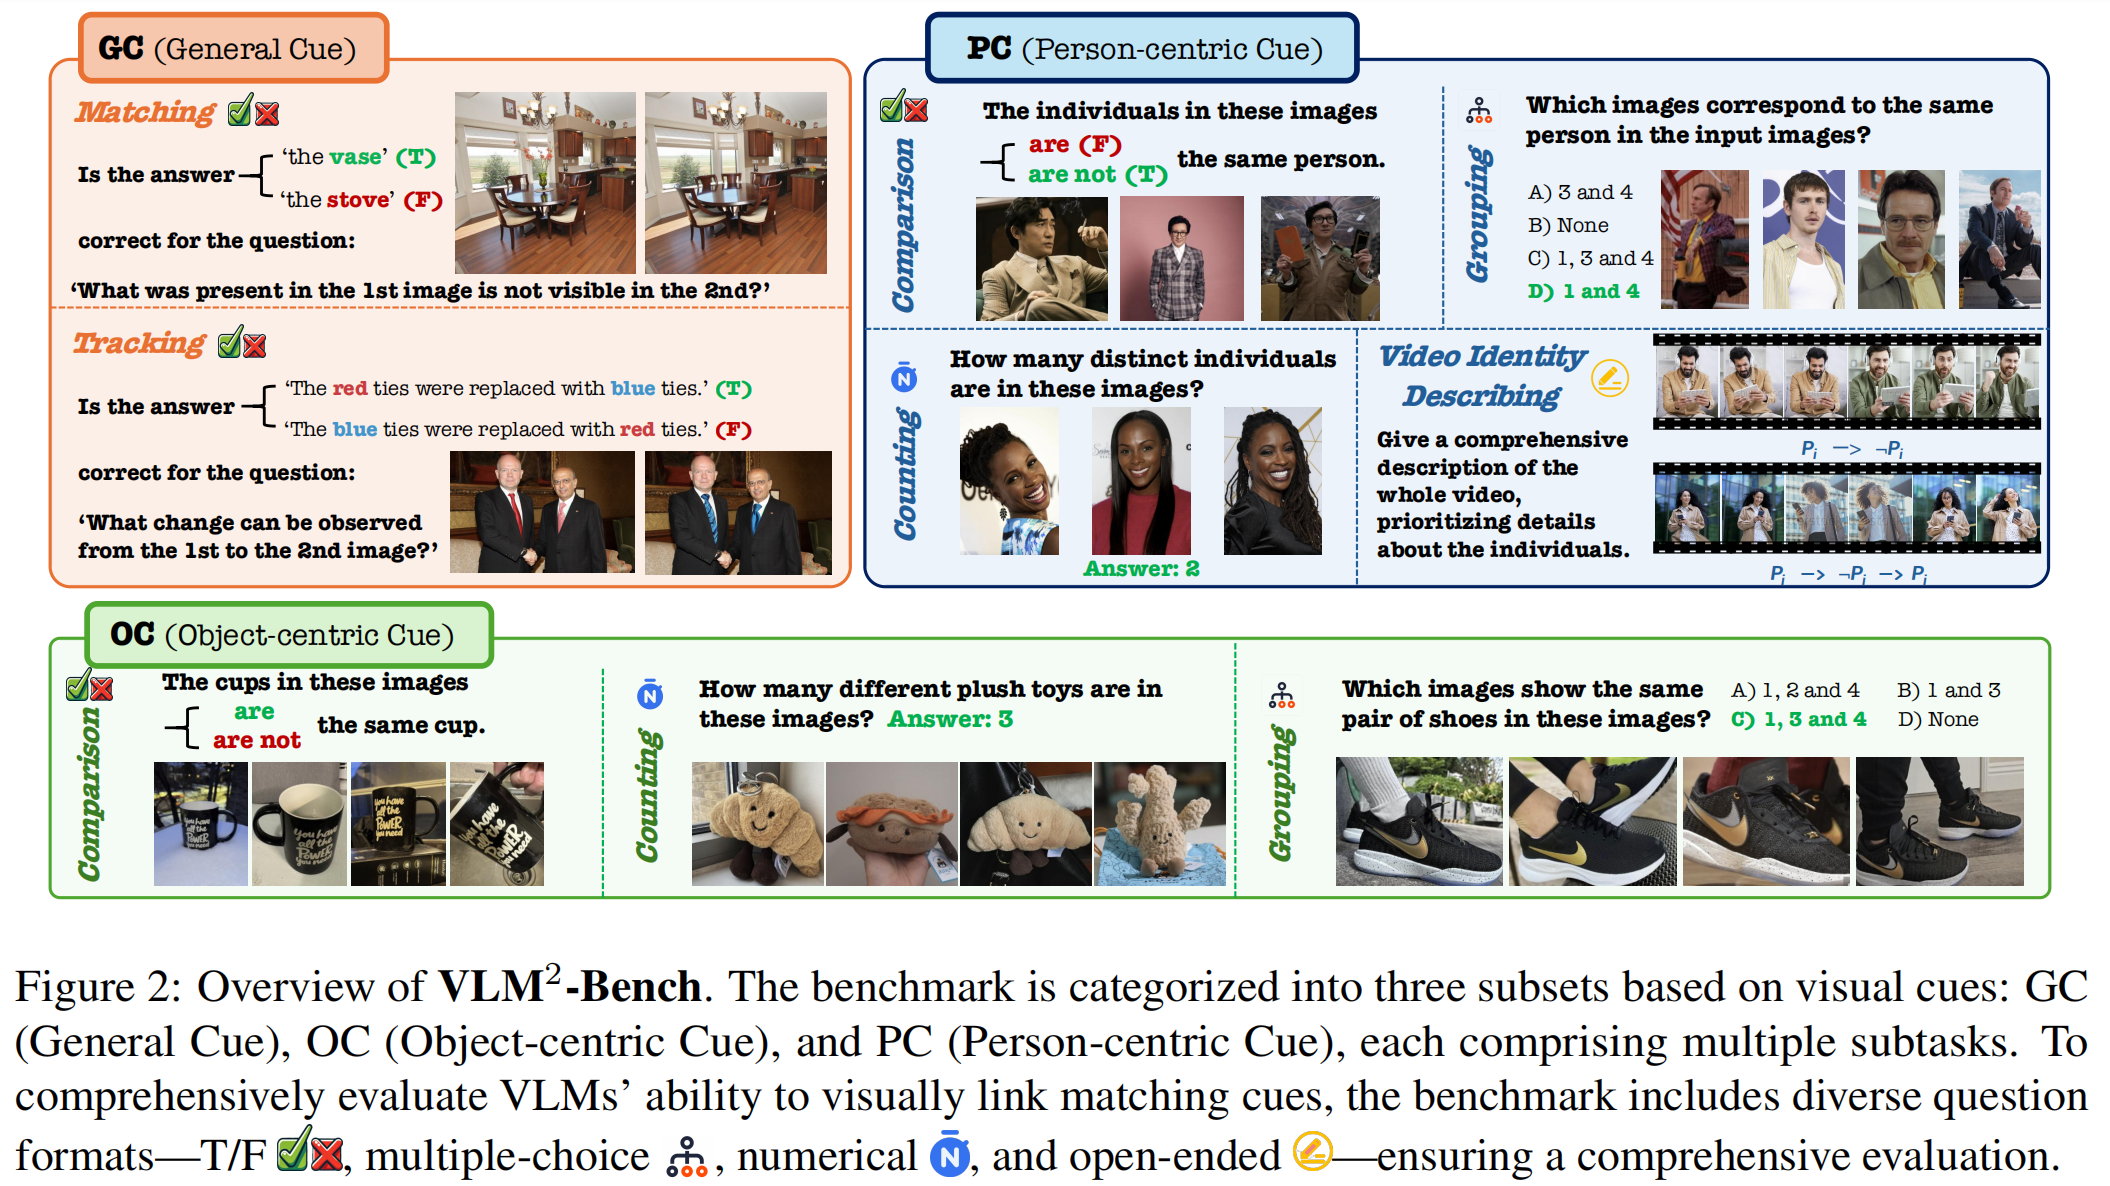
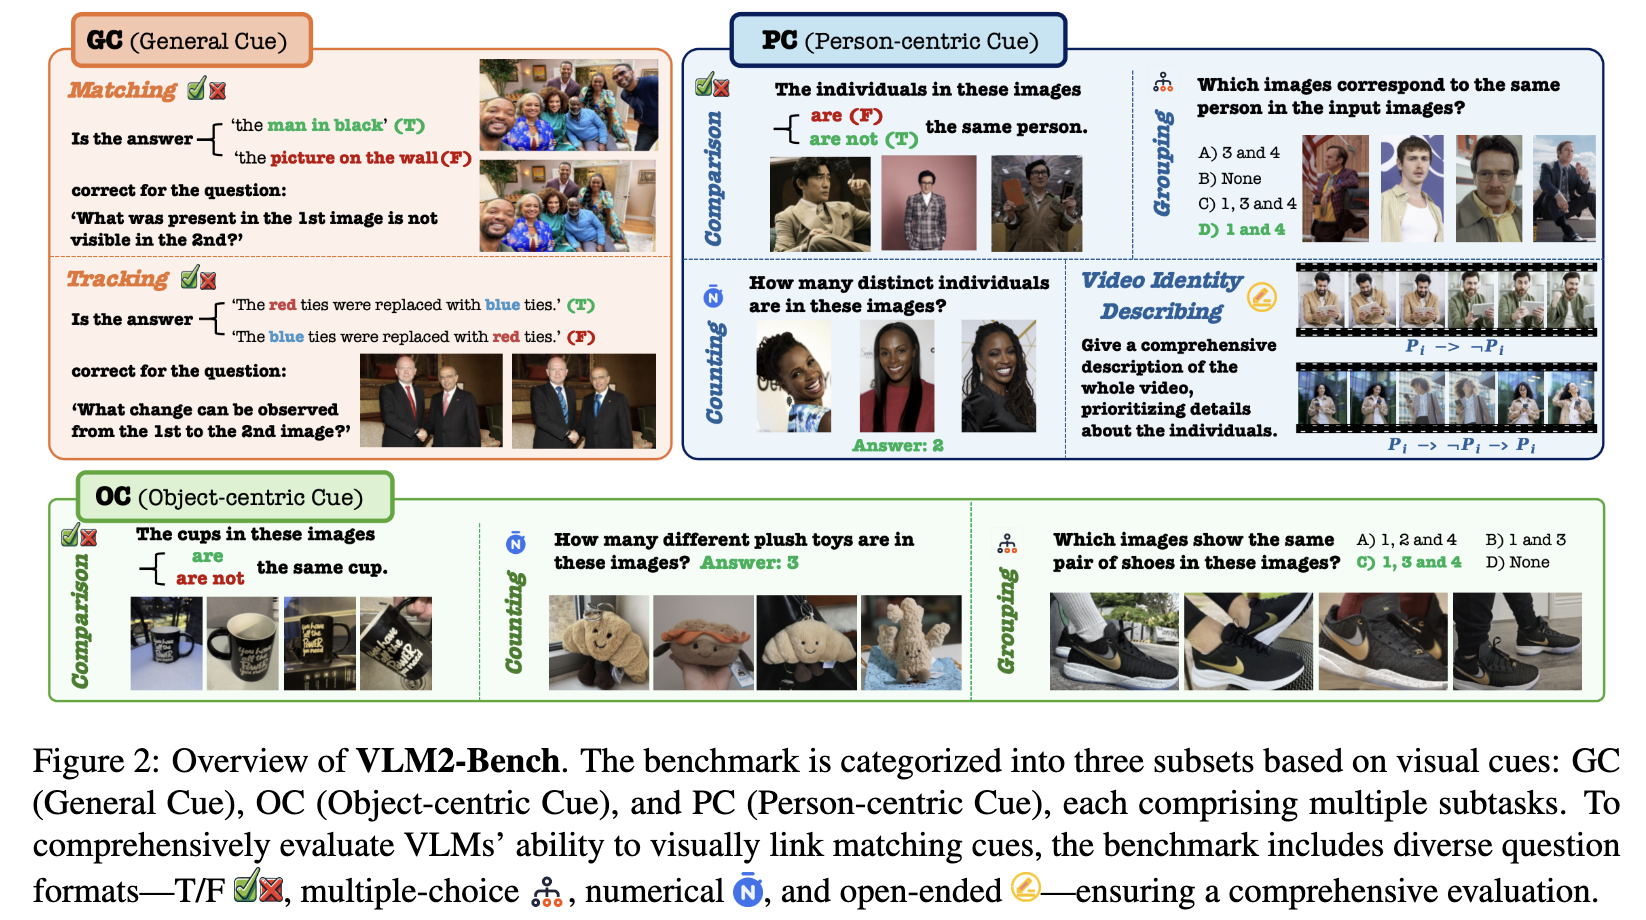
change project name into vlm2bench

diff --git a/README.md b/README.md
@@ -26,26 +26,26 @@
 
 ## Benchmark Introduction
 
-VLM²-Bench is the first comprehensive benchmark that evaluates vision-language models' (VLMs) ability to visually link matching cues across multi-image sequences and videos. The benchmark consists of 9 subtasks with over 3,000 test cases, designed to assess fundamental visual linking capabilities that humans use daily, such as identifying the same person across different photos without prior knowledge of their identity. Through extensive evaluation of eight open-source VLMs and GPT-4o using various prompting techniques, we uncover significant challenges in visual cue linking abilities, with even the best model (GPT-4o) performing 34.80% below human level. Our analysis reveals the need for 1) stronger core visual capabilities with less reliance on prior knowledge, 2) better integration of language reasoning in visual tasks, and 3) improved training approaches for independent visual relationship inference.
+VLM2-Bench is the first comprehensive benchmark that evaluates vision-language models' (VLMs) ability to visually link matching cues across multi-image sequences and videos. The benchmark consists of 9 subtasks with over 3,000 test cases, designed to assess fundamental visual linking capabilities that humans use daily, such as identifying the same person across different photos without prior knowledge of their identity. Through extensive evaluation of eight open-source VLMs and GPT-4o using various prompting techniques, we uncover significant challenges in visual cue linking abilities, with even the best model (GPT-4o) performing 34.80% below human level. Our analysis reveals the need for 1) stronger core visual capabilities with less reliance on prior knowledge, 2) better integration of language reasoning in visual tasks, and 3) improved training approaches for independent visual relationship inference.
 
 ---
 
 ## News
 
-- **2025/03/12:** 🔧 We have integrated all 2860 multi-image cases of our VLM²-Bench into [VLMEvalKit](https://github.com/open-compass/VLMEvalKit/tree/main) (example usage [here](https://github.com/vlm2-bench/VLM2-Bench?tab=readme-ov-file#evaluation-with-vlmevalkit-on-all-2860-image-cases)). In the meantime, feel free to follow our repo for local deployment.
+- **2025/03/12:** 🔧 We have integrated all 2860 multi-image cases of our VLM2-Bench into [VLMEvalKit](https://github.com/open-compass/VLMEvalKit/tree/main) (example usage [here](https://github.com/vlm2-bench/VLM2-Bench?tab=readme-ov-file#evaluation-with-vlmevalkit-on-all-2860-image-cases)). In the meantime, feel free to follow our repo for local deployment.
 - **2025/02/24:** 🤗 We submit our paper to [HF daily paper (Feb 24)](https://huggingface.co/papers/2502.12084); your UPVOTES are greatly appreciated! 👍
-- **2025/02/18:** 🚀 The preprint of VLM²-Bench is now officially released!
+- **2025/02/18:** 🚀 The preprint of VLM2-Bench is now officially released!
 
 <!-- 
 **2025/02/28:** ⚠ In the initial version of our HF dataset, a folder was mistakenly uploaded within the .zip file. This issue has been corrected in the latest version. Please check the updated [HF dataset](https://huggingface.co/datasets/Sterzhang/vlm2-bench).
 
--**2025/02/25:** 🔧 We are actively working on integrating VLM²-Bench into lmms-eval and VLMEvalKit--stay tuned! In the meantime, feel free to follow our repo for local deployment. -->
+-**2025/02/25:** 🔧 We are actively working on integrating VLM2-Bench into lmms-eval and VLMEvalKit--stay tuned! In the meantime, feel free to follow our repo for local deployment. -->
 
 ---
 
-## VLM²-Bench Overview
+## VLM2-Bench Overview
 
-VLM²-Bench is designed to evaluate models' ability to visually link matching cues across multiple images and videos. It is organized into three main categories:
+VLM2-Bench is designed to evaluate models' ability to visually link matching cues across multiple images and videos. It is organized into three main categories:
 
 - **General Cue (GC):** Assessing matching and tracking of visual elements.
 - **Object-centric Cue (OC):** Evaluating comparison, counting, and grouping of objects.
@@ -54,7 +54,7 @@ VLM²-Bench is designed to evaluate models' ability to visually link matching cu
 The dataset comprises a total of 3060 question-answer pairs generated via a semi-automated pipeline with human verification, covering various question formats such as True/False, multiple-choice, numerical, and open-ended queries.
 
 <div align="center">
-<h4>VLM²-Bench Overview</h4>
+<h4>VLM2-Bench Overview</h4>
 <img src="figs/vlm2-bench_overview.png" width="80%" alt="VLM2-Bench Overview"/>
 </div>
 
@@ -67,11 +67,11 @@ The dataset comprises a total of 3060 question-answer pairs generated via a semi
 
 ---
 
-## How to Evaluate Your Model on *VLM²-Bench*
+## How to Evaluate Your Model on *VLM2-Bench*
 
 ### Step 0: Environment Setup
 
-- **Git clone VLM²-Bench:**
+- **Git clone VLM2-Bench:**
 
 ```bash
 git clone https://github.com/vlm2-bench/VLM2-Bench.git
@@ -91,7 +91,7 @@ For model inference, our benchmark does not require any specific packages. We re
 
 ### Step 1: Download the Data
 
-- Download the VLM²-Bench dataset from our [huggingface repository](https://huggingface.co/datasets/Sterzhang/vlm2-bench/resolve/main/vlm2-bench_dataset.zip) link and unzip it at the root directory of this repository:
+- Download the VLM2-Bench dataset from our [huggingface repository](https://huggingface.co/datasets/Sterzhang/vlm2-bench/resolve/main/vlm2-bench_dataset.zip) link and unzip it at the root directory of this repository:
 
 ```bash
 unzip vlm2-bench_dataset.zip
@@ -143,7 +143,7 @@ this script will run the model for gc_mat and gc_trk tasks, and save the results
 
 For more details, please refer to the `.bash` scripts for each task directly. You may easily navigate to these files following the **Roadmap** below.
 
-#### *Roadmap* of inference scripts and bash scripts for all tasks in VLM²-Bench
+#### *Roadmap* of inference scripts and bash scripts for all tasks in VLM2-Bench
 
 example model: Qwen2.5-VL-7B-Instruct
 
